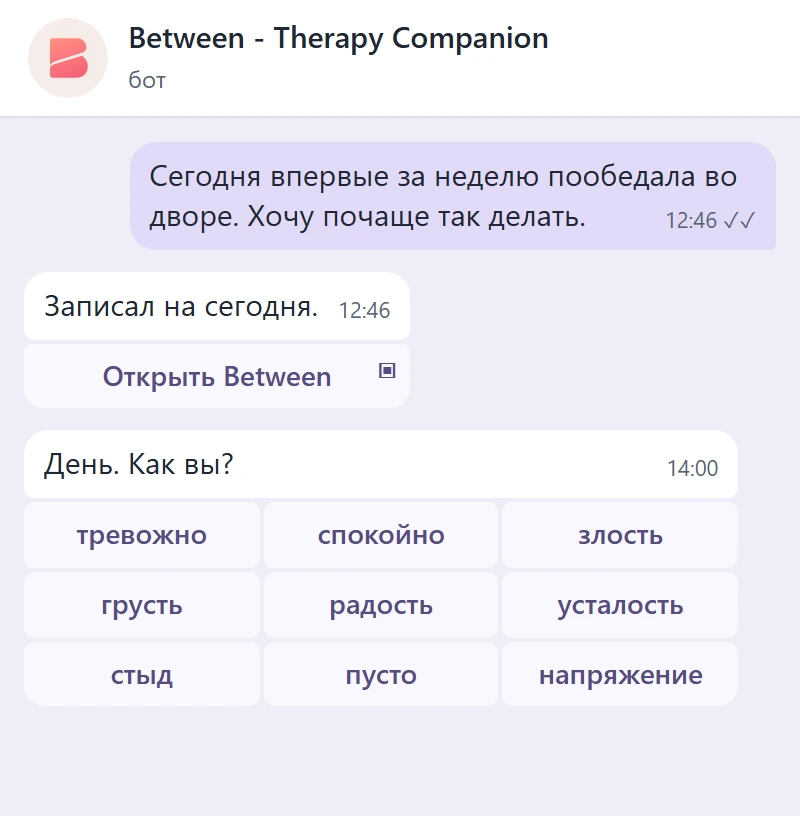
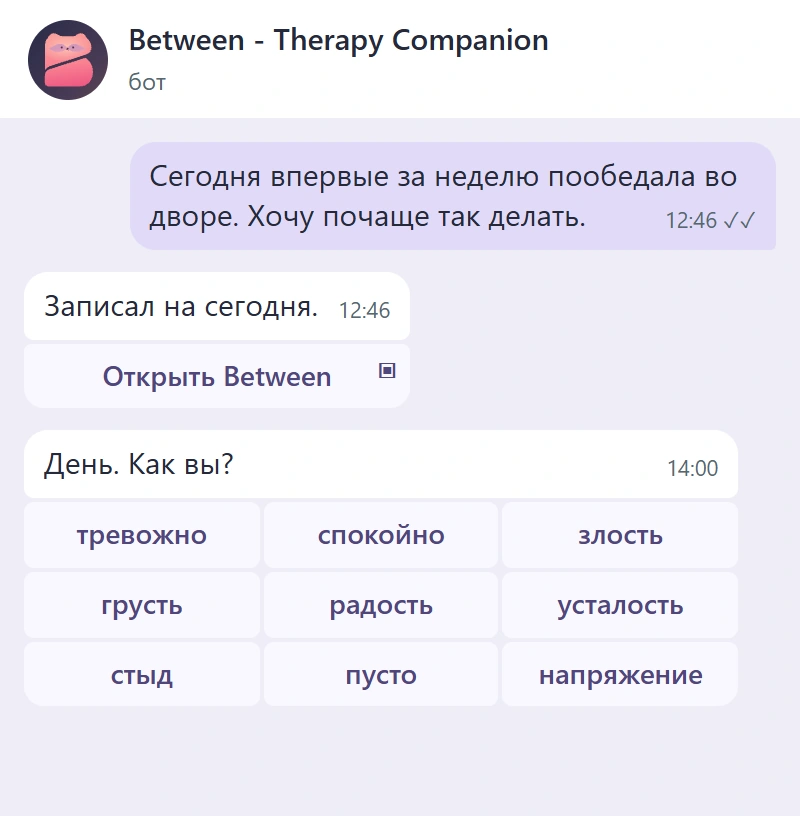
Refine mobile onboarding header and mascot and refresh bot screenshots

diff --git a/src/app/dawn.css b/src/app/dawn.css
@@ -284,8 +284,10 @@ html[data-design="dawn"]:is([data-scheme],[data-telegram-theme]) :is(.chapter-ct
   outline-offset: 4px;
 }
 html[data-design="dawn"]:is([data-scheme],[data-telegram-theme]) .desk-header {
-  background: color-mix(in srgb, var(--glass-fill) 70%, transparent);
-  border-color: var(--glass-border); backdrop-filter: blur(14px);
+  background: color-mix(in srgb, var(--glass-fill) var(--header-tint, 70%), transparent);
+  border-color: var(--glass-border);
+  -webkit-backdrop-filter: blur(var(--header-blur, 14px));
+  backdrop-filter: blur(var(--header-blur, 14px));
 }
 html[data-design="dawn"]:is([data-scheme],[data-telegram-theme]) :is(.desk-nav,.desk-content > footer) {
   background: color-mix(in srgb, var(--background) 60%, transparent);
@@ -324,9 +326,21 @@ html[data-design="dawn"]:is([data-scheme],[data-telegram-theme]) option { backgr
   width: clamp(7rem, 33vw, 10rem);
   inset-block-start: -.75rem;
 }
+@media (max-width: 760px) {
+  .desk-frame:has(.intro-screen) {
+    --header-tint: 40%;
+    --header-blur: 6px;
+  }
+  [data-intro-mascot]::after {
+    inset-inline-end: .25rem;
+    width: clamp(4.5rem, 21vw, 6.25rem);
+  }
+  [data-intro-mascot="bot_demo"]::after {
+    width: clamp(5rem, 23vw, 7rem);
+  }
+}
 @media (max-width: 360px) {
   [data-intro-mascot]::after {
-    inset-inline-end: .5rem;
     mask-image: linear-gradient(165deg, black 50%, transparent 94%);
   }
 }

diff --git a/src/components/intro-reflection.tsx b/src/components/intro-reflection.tsx
@@ -157,7 +157,7 @@ export function IntroReflection({onFinish}:{onFinish:(r:IntroDraft)=>boolean}) {
     </>}
     {screen==="bot_demo" && demo && <>
       <p>{say("После регистрации можно подключить бота: отправляйте заметки сообщением и отмечайте настроение прямо в чате.", "After signing up, you can connect the bot to send notes and check in on your mood right in the chat.")}</p>
-      {directory && <Image src={`${directory}/chat-${demo}-${en ? "en" : "ru"}-v2.webp`}
+      {directory && <Image unoptimized src={`${directory}/chat-${demo}-${en ? "en" : "ru"}-v2.webp?v=3`}
         width={400} height={408} className="w-full max-w-sm rounded-2xl"
         alt={say("Переписка с Between: заметка об обеде во дворе и кнопки для отметки настроения.", "A chat with Between showing a note about lunch outside and buttons to log a mood.")}/>}
       <Button className="ms-auto flex w-fit" data-confirm="" onClick={()=>go(step+1)}>{say("Продолжить","Continue")}</Button>
